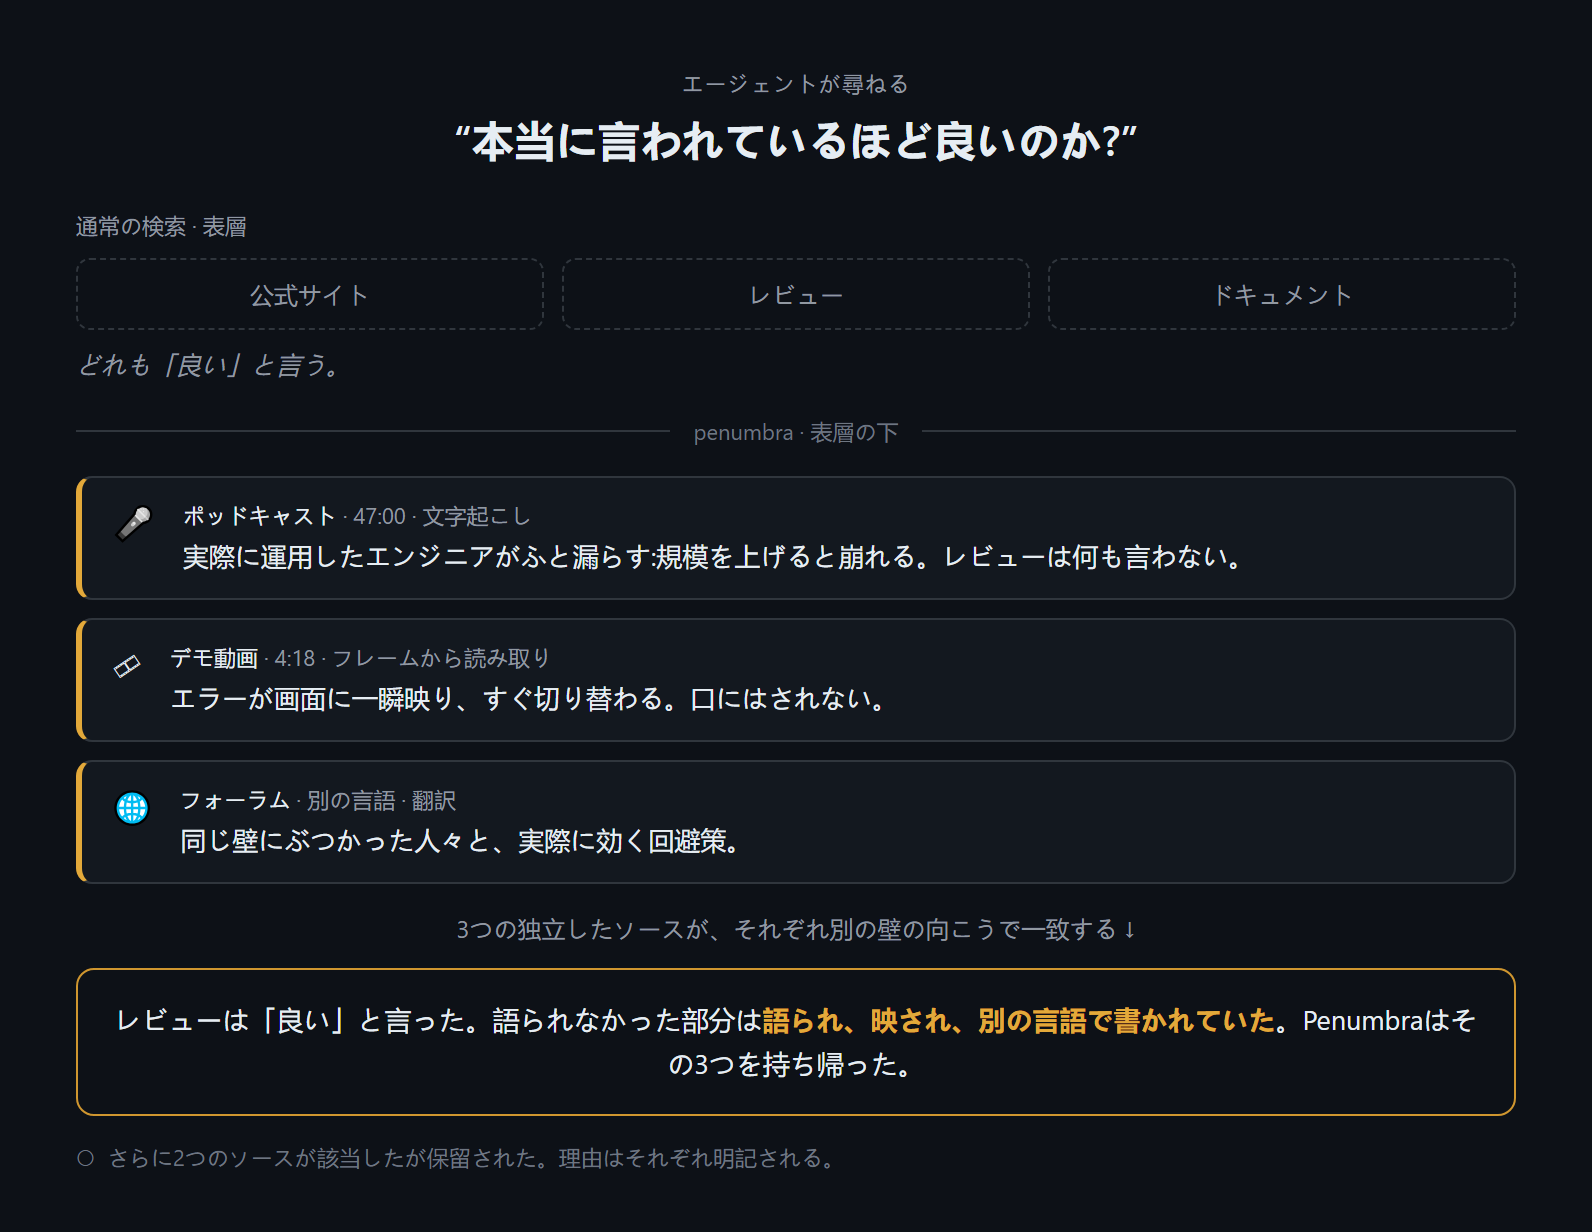
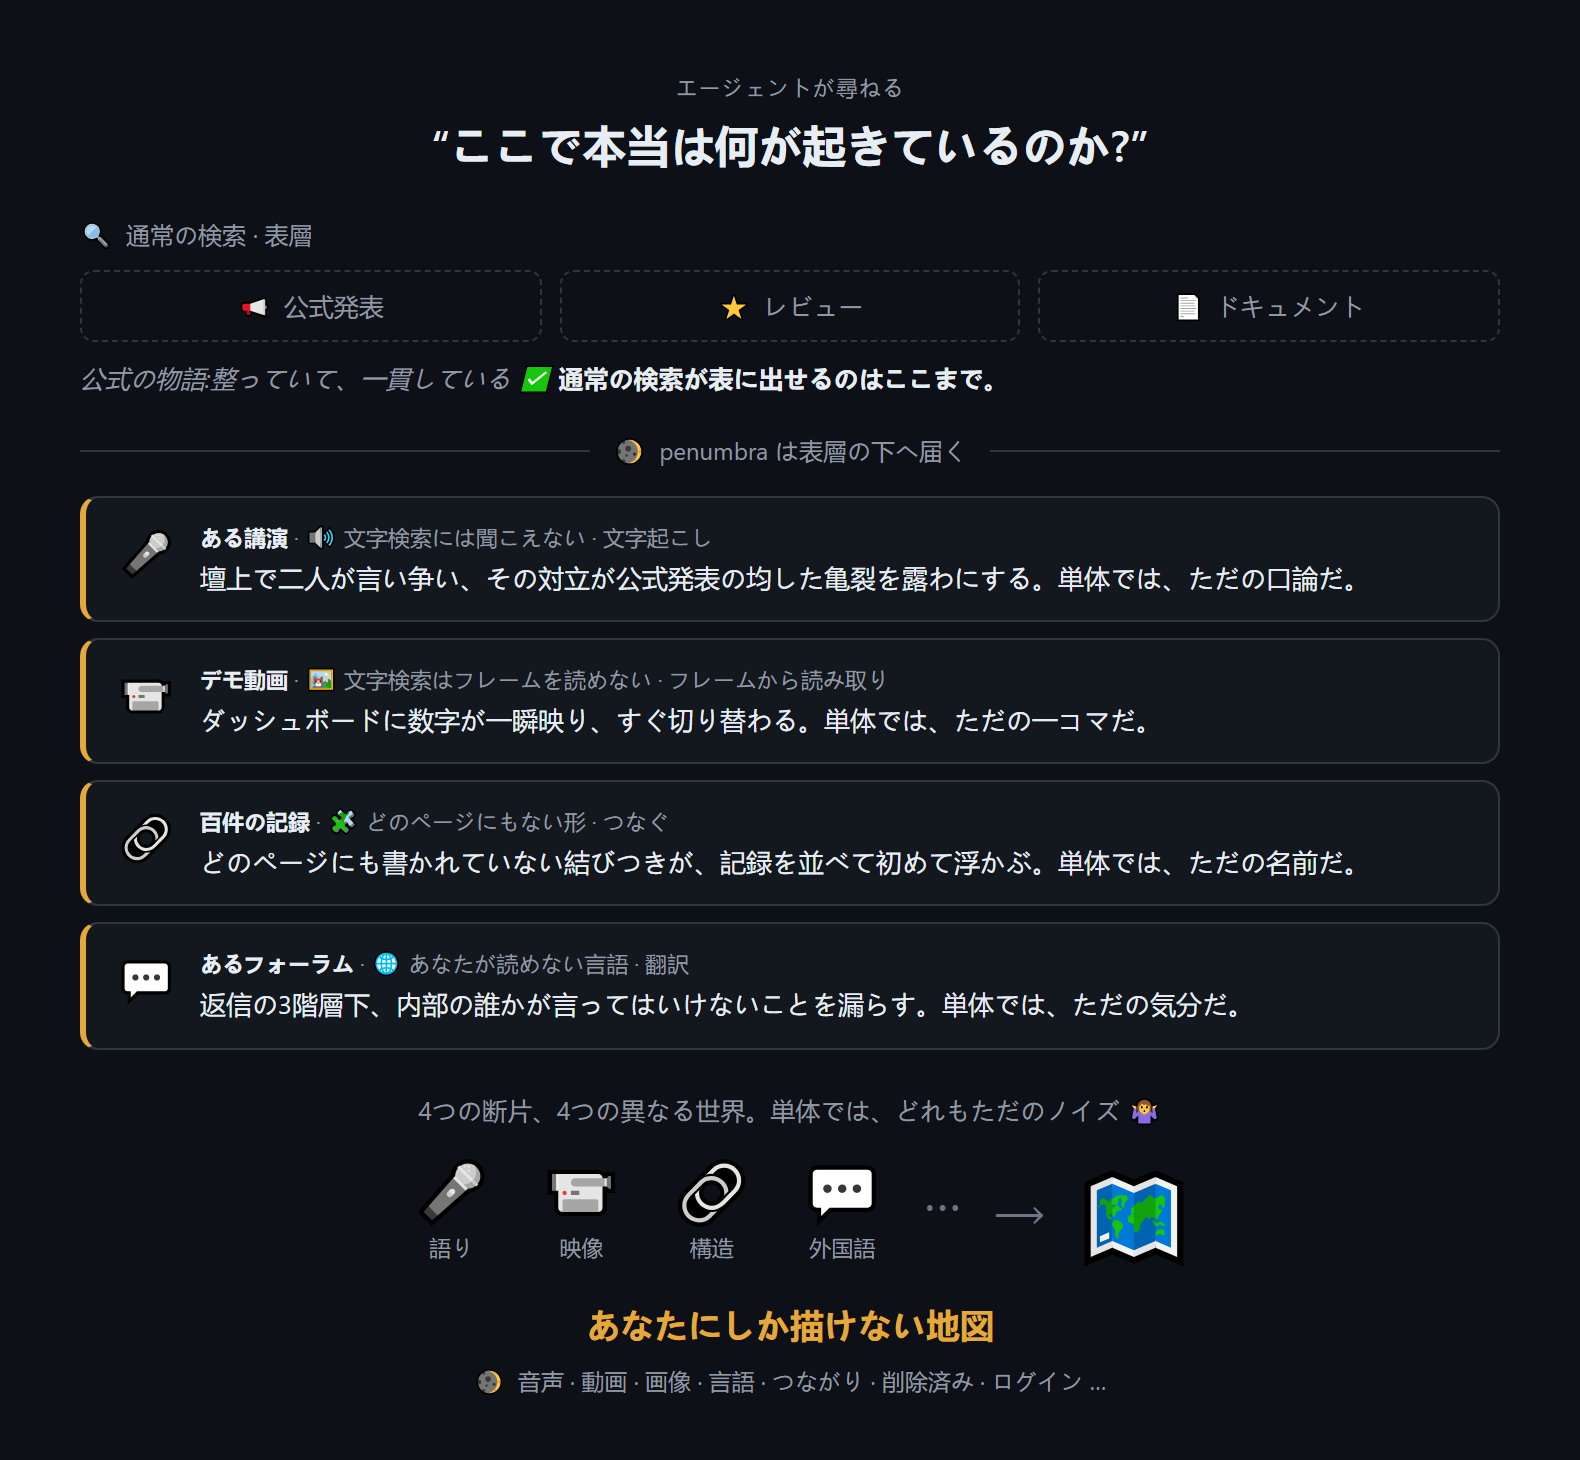
docs(readme): synthesis demo figure + matching alt (en/zh/ja)
The demo now shows the mosaic: a universal question, plain search's polished
surface, then four heterogeneous fragments penumbra reaches beneath (spoken,
shown, structured, foreign) that are noise alone and assemble into the map
only you can build. Accurate surface-vs-depth contrast, per-fragment barriers,
and a breadth strip (audio, video, images, languages, connections, the
deleted, logins) showing the wider reach. Alt text rewritten to match.
Localized en/zh/ja, light + dark.

diff --git a/docs/i18n/README_ja.md b/docs/i18n/README_ja.md
@@ -69,7 +69,7 @@ AIエージェントのための、セルフホスト型ディープ検索MCPサ
 <div align="center">
   <picture>
     <source media="(prefers-color-scheme: dark)" srcset="../../assets/demo-ja-dark.png">
-    <img src="../../assets/demo-ja-light.png" alt="実例:エージェントが、あるものが本当に言われているほど良いのかを尋ねる。通常の検索(公式サイト・レビュー・ドキュメント)はどれも「良い」と言う。Penumbraは表層の下に手を伸ばし、表層が取りこぼした3つの断片を返す:実際に運用したエンジニアがポッドキャストでふと漏らした「規模を上げると崩れる」、デモ動画に一瞬映って口にされなかったエラー、同じ壁にぶつかった人々が別の言語で書いた回避策。語られなかった部分は、語られ、映され、別の言語で書かれていた。Penumbraはその3つを持ち帰った。" width="780">
+    <img src="../../assets/demo-ja-light.png" alt="実例:エージェントが、ここで本当は何が起きているのかを尋ねる。通常の検索は表層しか返さない:公式発表、レビュー、ドキュメント、どれも整っていて一貫している。Penumbraは表層の下へ届き、単一の検索では表に出ない4つの断片を持ち帰る:文字起こしした講演では、壇上の二人の言い争いが公式発表の均した亀裂を露わにする;フレームから読み取ったデモ動画では、数字が一瞬映り、口にはされない;つないだ百件の記録は、どのページにも書かれていない結びつきを浮かび上がらせる;そしてあなたの読めない言語のフォーラムでは、内部の誰かが言ってはいけないことを漏らす。単体では、どれもただのノイズ。組み立てれば、あなたにしか描けない地図になる。Penumbraの到達は、音声・動画・画像・言語・つながり・削除済み・ログイン、そしてさらに広がる。" width="780">
   </picture>
 </div>
 

diff --git a/README.md b/README.md
@@ -69,7 +69,7 @@ A self-hosted deep-retrieval engine. Transcribes audio. Digests documents. Extra
 <div align="center">
   <picture>
     <source media="(prefers-color-scheme: dark)" srcset="assets/demo-en-dark.png">
-    <img src="assets/demo-en-light.png" alt="A worked example. Your agent asks whether something is as good as they say. Plain search (the homepage, the reviews, the docs) all say yes. Penumbra reaches beneath the surface and returns three pieces the surface left out: an engineer admitting offhand on a podcast that it falls apart at scale, an error that flickers on screen in a demo video and is never said aloud, and the workaround that the people who hit it wrote in another language. What the reviews left out was spoken, shown, and written in another language; Penumbra brought back all three." width="780">
+    <img src="assets/demo-en-light.png" alt="A worked example. Your agent asks what is really going on. Plain search returns only the surface: the announcement, the reviews, the docs, all clean and agreeing. Penumbra reaches beneath and brings back four fragments no single search surfaces: a talk it transcribed, where two argue on stage and expose the fault line the write-up hides; a demo video it read from the frame, where a number flickers for a second and is never said aloud; a hundred records it connected, revealing a tie no single page states; and a forum in a language you don't read, where an insider says the quiet part. Alone, each is noise. Assembled, they become the map only you can build. Penumbra's reach spans audio, video, images, languages, connections, the deleted, logins, and more." width="780">
   </picture>
 </div>
 

diff --git a/docs/i18n/README_zh.md b/docs/i18n/README_zh.md
@@ -69,7 +69,7 @@
 <div align="center">
   <picture>
     <source media="(prefers-color-scheme: dark)" srcset="../../assets/demo-zh-dark.png">
-    <img src="../../assets/demo-zh-light.png" alt="一个实例:你的 agent 问一个东西是不是真有他们说的那么好。普通搜索(官网、评测、文档)都说好。Penumbra 伸进表层之下,捞回表层漏掉的三块:一个真用过的工程师在播客里随口说的"一上规模就崩"、演示视频里一闪而过又从没说出口的报错、撞过同一堵墙的人用另一种语言写下的绕法。它们没说的那部分,被说过、被展示过、用另一种语言写过;Penumbra 把三块都带了回来。" width="780">
+    <img src="../../assets/demo-zh-light.png" alt="一个实例:你的 agent 问这里到底在发生什么。普通搜索只给表层:官方公告、评测、文档,都干净、一致。Penumbra 探到表层之下,带回四块任何单一搜索都浮不出的碎片:一场它转写的演讲,台上两人争执,暴露了官方通稿抹平的裂缝;一段它从画面读出的演示视频,一个数字闪过又从没说出口;上百条它连起来的记录,浮现出任何单页都没写明的关系;还有一个用你读不懂的语言写的论坛,一个知情者说了那句不该说的。单看,每一块都是噪声;拼起来,就成了只有你能拼出的那张图。Penumbra 的触及横跨音频、视频、图像、语言、关系、被删内容、登录源,以及更多。" width="780">
   </picture>
 </div>
 
